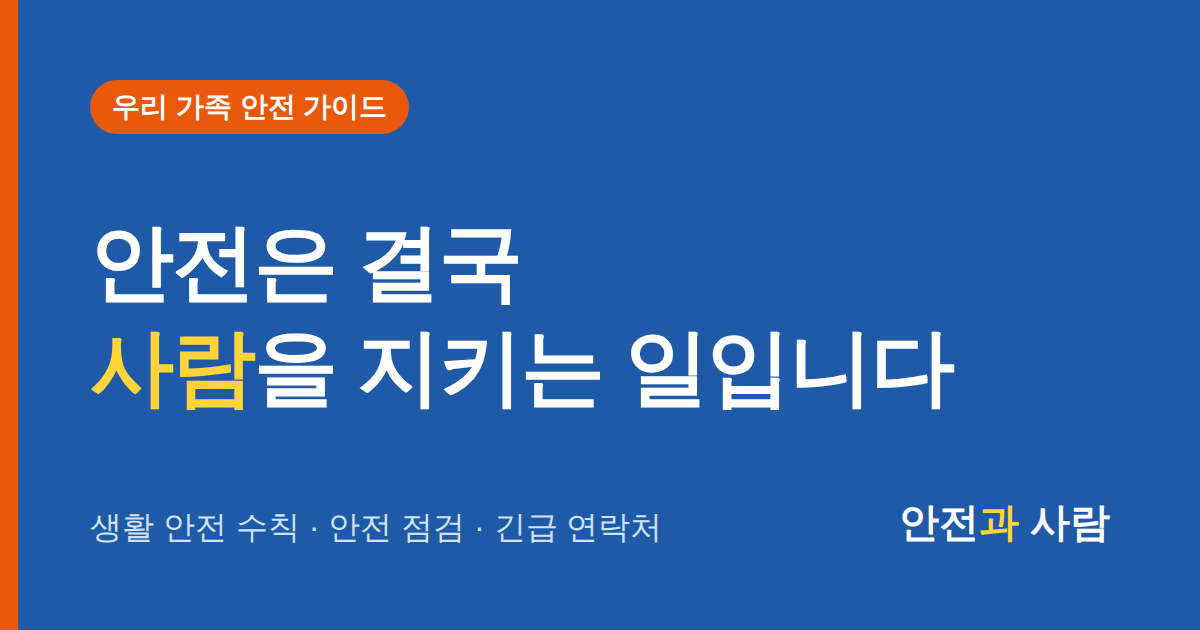
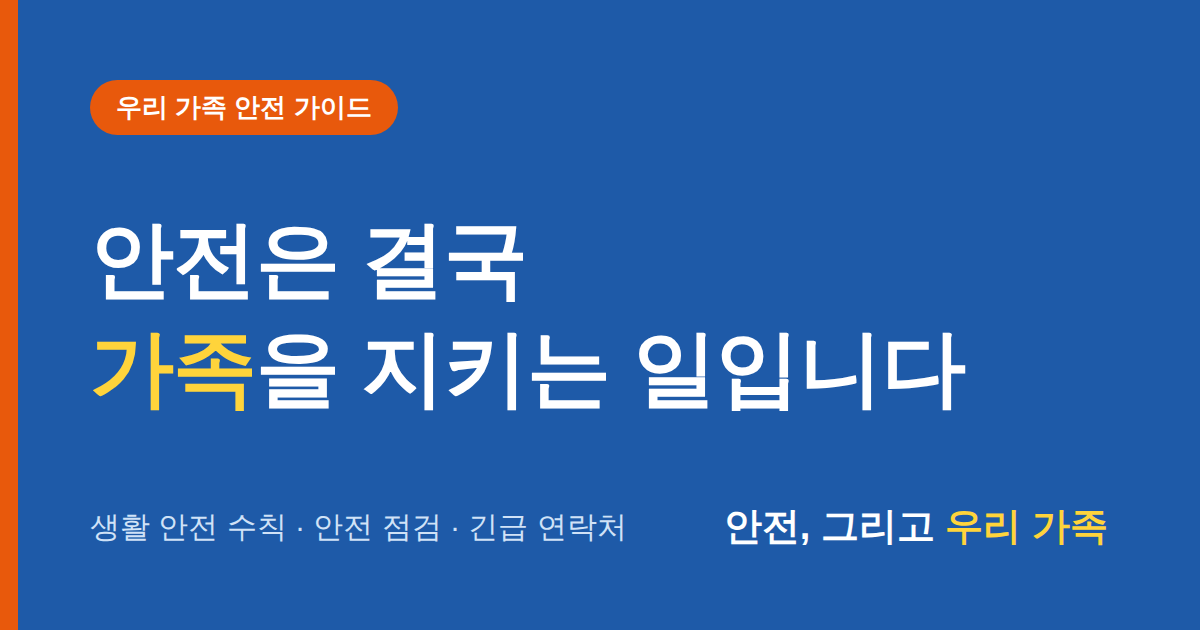
사이트 이름을 '안전, 그리고 우리 가족'으로 변경 (#15)
* 사이트 이름을 '안전, 그리고 우리 가족'으로 변경

페이지 제목, 상단 로고, 공유 미리보기(메타 태그·og-image), 하단 문구,
공유 버튼, 예전 주소 이동 페이지, README의 이름을 모두 바꿨습니다.
검색 설명에는 쉼표 없는 표기도 함께 넣었습니다.

Claude-Session: https://claude.ai/code/session_01F23Mdfd9QJnn2J2Jh5Ne91

* 대표 문구를 '안전은 결국 가족을 지키는 일입니다'로 변경

새 사이트 이름에 맞춰 첫 화면 큰 제목과 공유 미리보기 이미지의 문구를 바꿨습니다.

Claude-Session: https://claude.ai/code/session_01F23Mdfd9QJnn2J2Jh5Ne91

---------

diff --git a/index.html b/index.html
@@ -3,16 +3,16 @@
 <head>
   <meta charset="UTF-8" />
   <meta name="viewport" content="width=device-width, initial-scale=1.0" />
-  <title>안전과 사람 | 생활 안전 수칙 · 우리 집 안전 점검 · 긴급 연락처</title>
-  <meta name="description" content="집, 길, 일터에서 꼭 챙겨야 할 생활 안전 수칙과 우리 집 안전 점수 셀프 점검, 긴급 연락처를 한 페이지에 정리했습니다." />
+  <title>안전, 그리고 우리 가족 | 생활 안전 수칙 · 우리 집 안전 점검 · 긴급 연락처</title>
+  <meta name="description" content="안전 그리고 우리 가족 — 집, 길, 일터에서 꼭 챙겨야 할 생활 안전 수칙과 우리 집 안전 점수 셀프 점검, 긴급 연락처를 한 페이지에 정리했습니다." />
   <link rel="canonical" href="https://taeki-cord.github.io/taekidamoa/" />
   <!-- 검색 등록 확인 코드: 네이버 서치어드바이저·구글 서치콘솔에서 받은 값을 content에 넣습니다 -->
   <!-- <meta name="naver-site-verification" content="" /> -->
   <!-- <meta name="google-site-verification" content="" /> -->
   <!-- 카카오톡·SNS 공유 미리보기 -->
   <meta property="og:type" content="website" />
-  <meta property="og:site_name" content="안전과 사람" />
-  <meta property="og:title" content="안전과 사람 | 우리 가족 안전 가이드" />
+  <meta property="og:site_name" content="안전, 그리고 우리 가족" />
+  <meta property="og:title" content="안전, 그리고 우리 가족 | 생활 안전 수칙 · 긴급 연락처" />
   <meta property="og:description" content="집, 길, 일터에서 꼭 챙겨야 할 안전 수칙과 긴급 연락처를 한 페이지에 정리했습니다." />
   <meta property="og:url" content="https://taeki-cord.github.io/taekidamoa/" />
   <meta property="og:image" content="https://taeki-cord.github.io/taekidamoa/og-image.png" />
@@ -317,7 +317,7 @@
 
   <header class="nav">
     <div class="wrap">
-      <a href="#top" class="logo">안전<span>과</span> 사람</a>
+      <a href="#top" class="logo">안전, 그리고 <span>우리 가족</span></a>
       <ul>
         <li><a class="menu" href="#rules">생활 안전 수칙</a></li>
         <li><a class="menu" href="#check">안전 점검</a></li>
@@ -333,7 +333,7 @@
   <section class="hero" id="top">
     <div class="wrap">
       <span class="tag">우리 가족 안전 가이드</span>
-      <h1>안전은 결국<br /><em>사람</em>을 지키는 일입니다</h1>
+      <h1>안전은 결국<br /><em>가족</em>을 지키는 일입니다</h1>
       <p>집, 길, 일터에서 꼭 챙겨야 할 기본 수칙을 한 페이지에 정리했습니다. 오늘 5분만 투자해서 우리 집 안전 점수부터 확인해 보시죠.</p>
       <a href="#check" class="btn">내 안전 점수 확인하기</a>
       <a href="https://www.youtube.com/@%ED%83%9C%EA%B8%B0tp/shorts" class="btn ghost" target="_blank" rel="noopener">▶ 쇼츠 보러가기</a>
@@ -512,7 +512,7 @@
 
   <footer>
     <div class="wrap">
-      <p>안전과 사람 · 오늘도 무사히 퇴근하세요.</p>
+      <p>안전, 그리고 우리 가족 · 오늘도 무사히 퇴근하세요.</p>
       <button type="button" class="share-btn" id="sharePage">💬 이 페이지 공유하기</button>
       <p class="share-msg" id="sharePageMsg" aria-live="polite"></p>
     </div>
@@ -610,7 +610,7 @@
     const SHARE_URL = 'https://taeki-cord.github.io/taekidamoa/?from=share';
     async function sharePage(text, msgEl) {
       if (navigator.share) {
-        try { await navigator.share({ title: '안전과 사람', text, url: SHARE_URL }); return; }
+        try { await navigator.share({ title: '안전, 그리고 우리 가족', text, url: SHARE_URL }); return; }
         catch (e) { if (e.name === 'AbortError') return; }
       }
       const full = text + '\n' + SHARE_URL;

diff --git a/안전과사람/index.html b/안전과사람/index.html
@@ -3,12 +3,12 @@
 <head>
   <meta charset="UTF-8" />
   <meta name="viewport" content="width=device-width, initial-scale=1.0" />
-  <title>안전과 사람</title>
+  <title>안전, 그리고 우리 가족</title>
   <!-- 예전 주소로 들어온 방문자를 첫 화면으로 보냅니다 -->
   <meta http-equiv="refresh" content="0; url=../" />
   <link rel="canonical" href="../" />
 </head>
 <body>
-  <p>페이지가 이동했습니다. <a href="../">안전과 사람 바로가기</a></p>
+  <p>페이지가 이동했습니다. <a href="../">안전, 그리고 우리 가족 바로가기</a></p>
 </body>
 </html>

diff --git a/로또번호/index.html b/로또번호/index.html
@@ -3,7 +3,7 @@
 <head>
   <meta charset="UTF-8" />
   <meta name="viewport" content="width=device-width, initial-scale=1.0" />
-  <title>행운 번호 뽑기 | 안전과 사람</title>
+  <title>행운 번호 뽑기 | 안전, 그리고 우리 가족</title>
   <!-- 로또 번호 추천기는 첫 화면의 '행운 번호' 코너로 옮겼습니다 -->
   <meta http-equiv="refresh" content="0; url=../#lotto" />
   <link rel="canonical" href="../#lotto" />

diff --git a/README.md b/README.md
@@ -6,7 +6,7 @@
 
 | 주소 | 파일 | 내용 |
 | --- | --- | --- |
-| `/` (첫 화면) | `index.html` | **안전과 사람** — 생활 안전 수칙, 안전 점검, 안전 다짐 게시판, 쇼츠 영상, 긴급 연락처, 행운 번호 뽑기 |
+| `/` (첫 화면) | `index.html` | **안전, 그리고 우리 가족** — 생활 안전 수칙, 안전 점검, 안전 다짐 게시판, 쇼츠 영상, 긴급 연락처, 행운 번호 뽑기 |
 | `/안전과사람/` | `안전과사람/index.html` | 예전 주소. 첫 화면으로 자동 이동 |
 | `/로또번호/` | `로또번호/index.html` | 예전 주소. 첫 화면의 '행운 번호' 코너로 자동 이동 |
 
